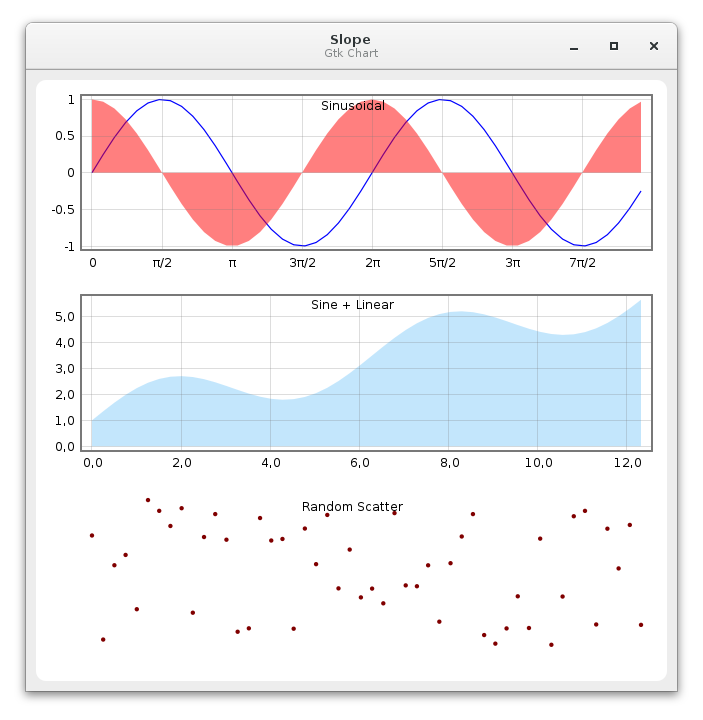
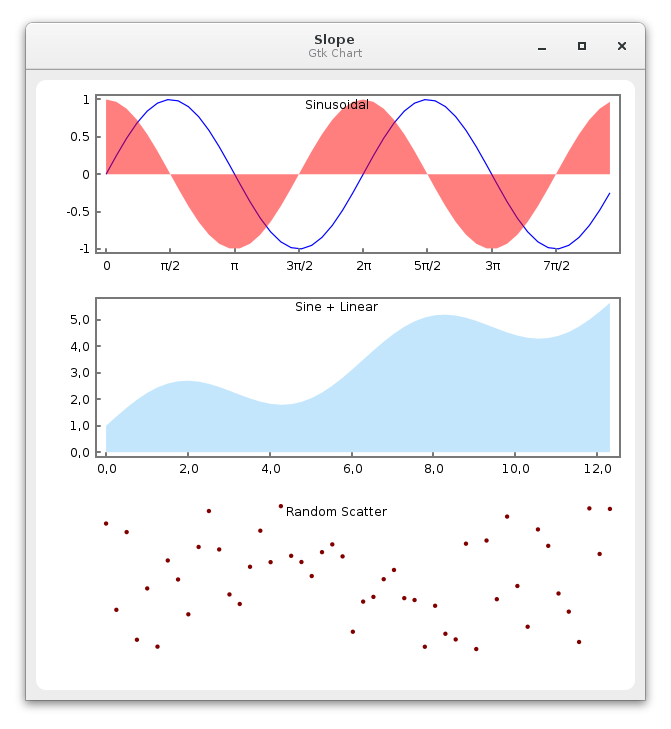
Customize xyscale axis

diff --git a/src/slope/xyscale.c b/src/slope/xyscale.c
@@ -94,17 +94,26 @@ slope_xyscale_init (SlopeXyScale *self)
     priv->axis[SLOPE_XYSCALE_AXIS_LEFT] = slope_xyaxis_new(SLOPE_XYAXIS_VERTICAL);
     priv->axis[SLOPE_XYSCALE_AXIS_RIGHT] = slope_xyaxis_new(SLOPE_XYAXIS_VERTICAL);
 
-    slope_xyaxis_set_components(SLOPE_XYAXIS(priv->axis[SLOPE_XYSCALE_AXIS_TOP]), SLOPE_XYAXIS_LINE);
-    slope_xyaxis_set_components(SLOPE_XYAXIS(priv->axis[SLOPE_XYSCALE_AXIS_RIGHT]), SLOPE_XYAXIS_LINE);
-    for (k=0; k<MAX_AXIS; ++k) {
-        _item_set_scale(priv->axis[k], SLOPE_SCALE(self));
-    }
+    slope_xyaxis_set_components(SLOPE_XYAXIS(priv->axis[SLOPE_XYSCALE_AXIS_BOTTOM]),
+                                SLOPE_XYAXIS_LINE
+                                |SLOPE_XYAXIS_TICKS_DOWN
+                                |SLOPE_XYAXIS_TITLE);
+    slope_xyaxis_set_components(SLOPE_XYAXIS(priv->axis[SLOPE_XYSCALE_AXIS_LEFT]),
+                                SLOPE_XYAXIS_LINE
+                                |SLOPE_XYAXIS_TICKS_DOWN
+                                |SLOPE_XYAXIS_TITLE);
+    slope_xyaxis_set_components(SLOPE_XYAXIS(priv->axis[SLOPE_XYSCALE_AXIS_TOP]),
+                                SLOPE_XYAXIS_LINE);
+    slope_xyaxis_set_components(SLOPE_XYAXIS(priv->axis[SLOPE_XYSCALE_AXIS_RIGHT]),
+                                SLOPE_XYAXIS_LINE);
 
-    priv->left_margin = 45.0;
+    for (k=0; k<MAX_AXIS; ++k) _item_set_scale(priv->axis[k], SLOPE_SCALE(self));
+
+    priv->left_margin = 60.0;
     priv->right_margin = 15.0;
     priv->top_margin = 15.0;
     priv->bottom_margin = 30.0;
-    slope_scale_set_name_top_padding(SLOPE_SCALE(self), priv->top_margin + 3);
+    slope_scale_set_name_top_padding(SLOPE_SCALE(self), priv->top_margin + 2);
 
     priv->horiz_pad = 0.02;
     priv->vertical_pad = 0.03;

diff --git a/src/slope/xyaxis.c b/src/slope/xyaxis.c
@@ -155,6 +155,10 @@ void _xyaxis_draw_horizontal (SlopeXyAxis *self, cairo_t *cr)
         slope_cairo_set_color(cr, priv->line_color);
         slope_cairo_line_cosmetic(cr, &p1, &p2, priv->line_width);
         cairo_stroke(cr);
+
+        if (priv->component == SLOPE_XYAXIS_LINE) {
+            return;
+        }
     }
 
     sampler_mode = slope_xyaxis_sampler_get_mode(priv->sampler);
@@ -244,6 +248,10 @@ void _xyaxis_draw_vertical (SlopeXyAxis *self, cairo_t *cr)
         slope_cairo_set_color(cr, priv->line_color);
         slope_cairo_line_cosmetic(cr, &p1, &p2, priv->line_width);
         cairo_stroke(cr);
+
+        if (priv->component == SLOPE_XYAXIS_LINE) {
+            return;
+        }
     }
 
     sampler_mode = slope_xyaxis_sampler_get_mode(priv->sampler);
